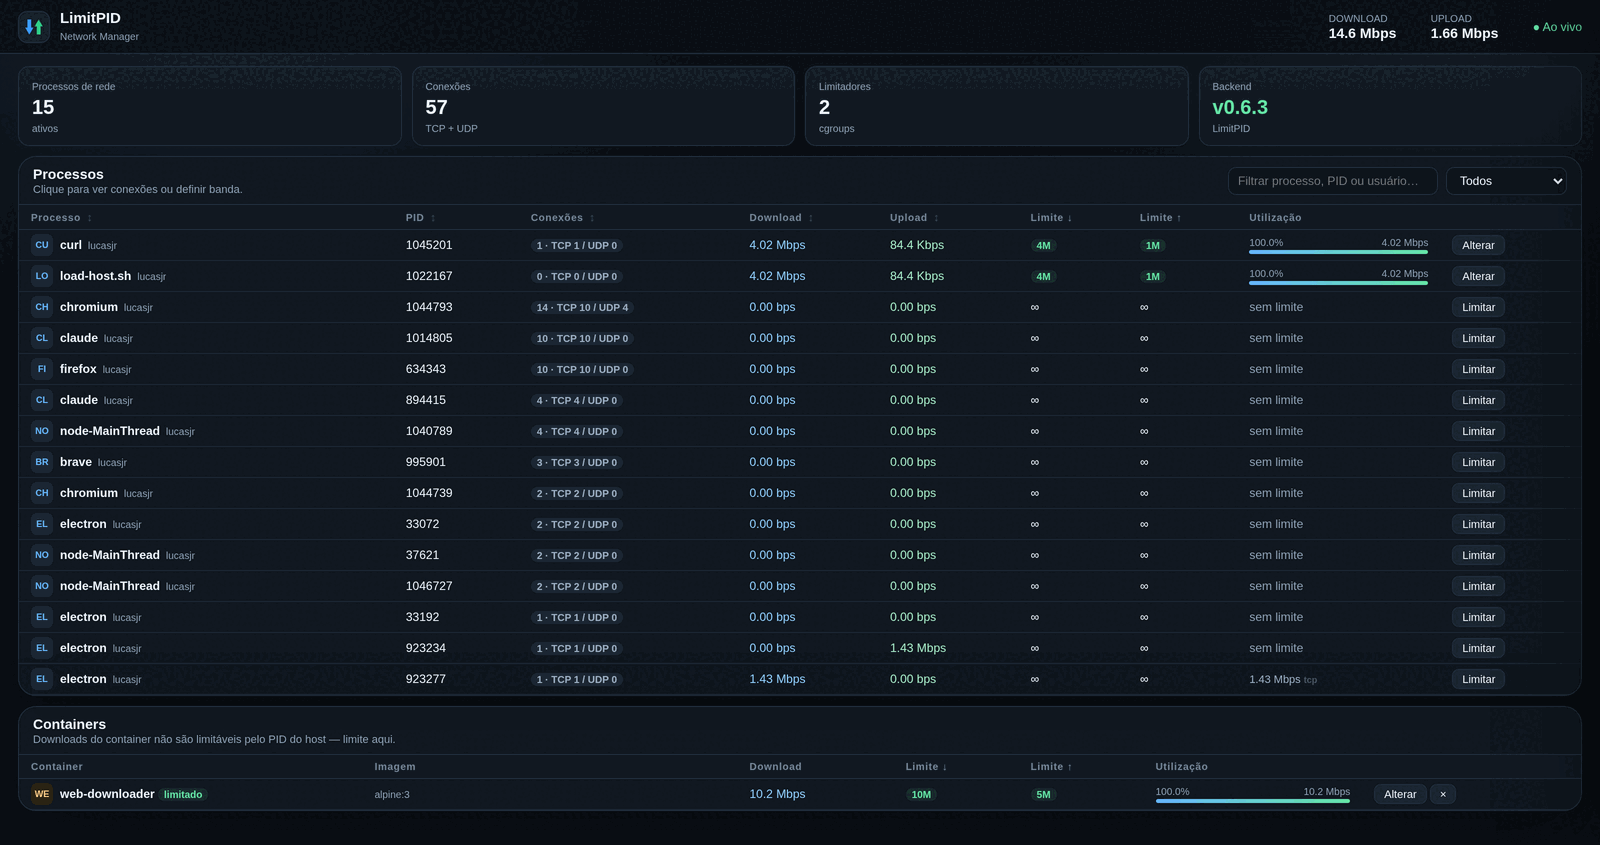
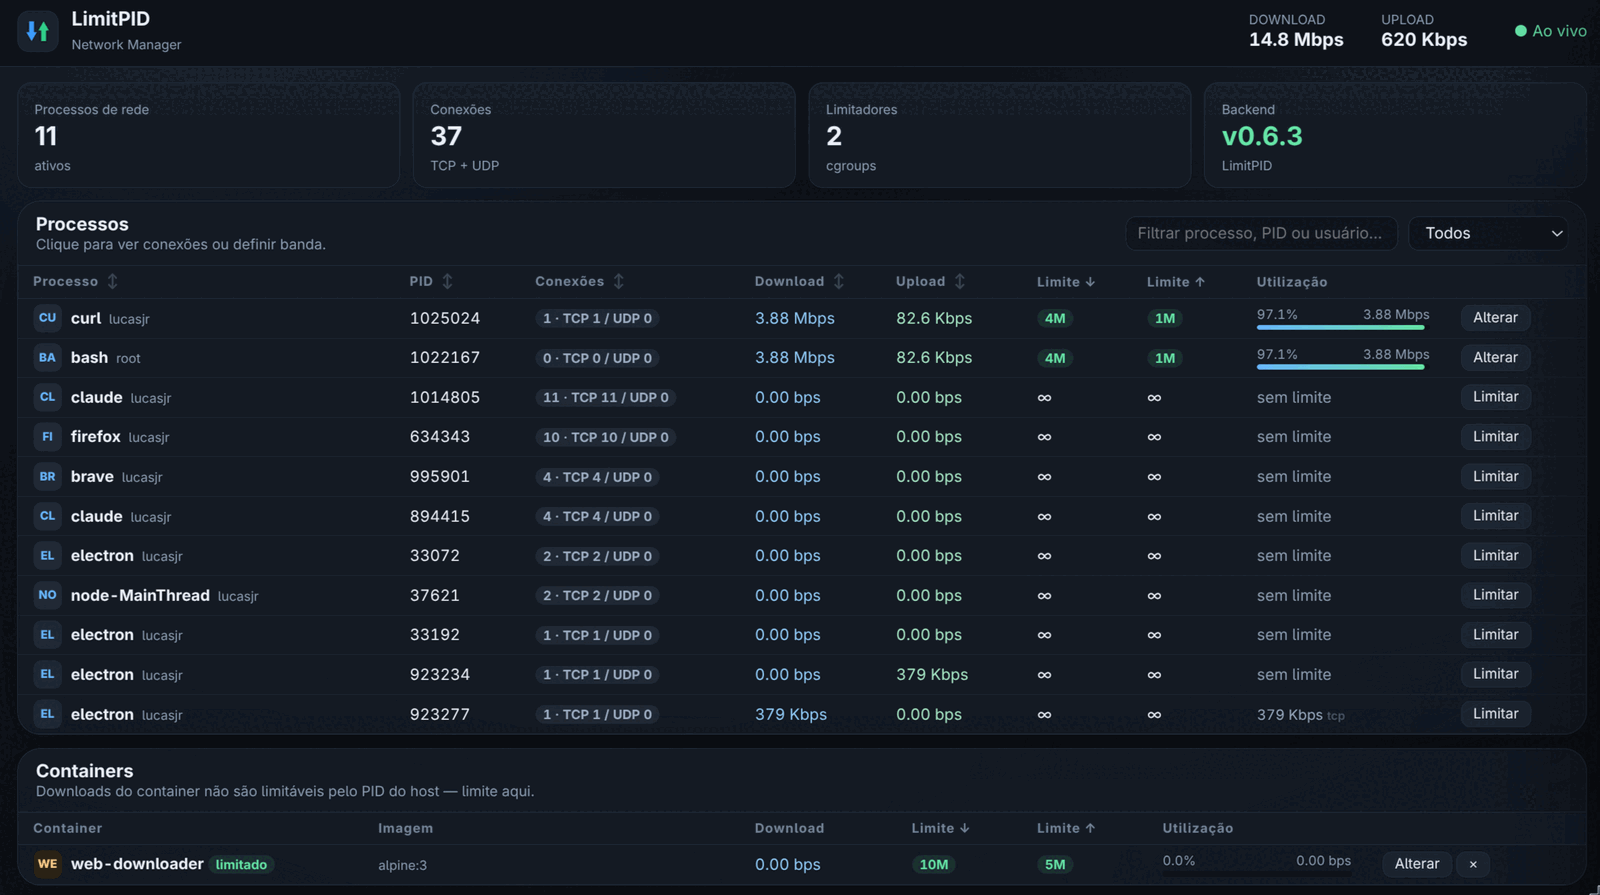
docs: usa a captura enviada pelo autor e ajusta a legenda aos numeros dela
O print anterior foi substituido pelo enviado pelo autor: mostra dois
limitadores de PID a 4M/1M rodando a 97,1% do teto e o container
web-downloader limitado a 10M/5M. Metadados removidos.

As legendas dos dois README foram reescritas para descrever exatamente o que
aparece na imagem, em vez de numeros de uma captura anterior.

diff --git a/README.md b/README.md
@@ -24,10 +24,11 @@ The backend is fully usable on its own from the command line. The GUI is conveni
 
 ![The LimitPID GUI](assets/screenshot.png)
 
-Above: two processes capped at 4 Mbit/s (`curl` and a load script) running at 100% of
-their ceiling, and the container `web-downloader` capped at 10 Mbit/s pulling 10.2 Mbps.
-The other processes show `∞` because they have no limiter — their rate comes from
-`tcp_info`.
+Above: `curl` and `bash` capped at **4M ↓ / 1M ↑**, both running at **97.1%** of their
+ceiling — the utilization bar comes from the eBPF counters, which are exact. The container
+`web-downloader` is capped at **10M / 5M** and idle at capture time. The other processes
+show `∞` because they have no limiter; their rate comes from `tcp_info`, hence the `tcp`
+marker.
 
 ---
 

diff --git a/README.pt-BR.md b/README.pt-BR.md
@@ -24,9 +24,10 @@ O backend funciona sozinho pela linha de comando. A GUI é conveniência.
 
 ![A GUI do LimitPID](assets/screenshot.png)
 
-Acima: dois processos limitados a 4 Mbit/s (`curl` e um script de carga) rodando a 100%
-do teto, e o container `web-downloader` limitado a 10 Mbit/s puxando 10,2 Mbps. Os demais
-processos aparecem com `∞` porque não têm limitador — a taxa deles vem do `tcp_info`.
+Acima: `curl` e `bash` limitados a **4M ↓ / 1M ↑**, ambos a **97,1%** do teto — a barra
+de utilização vem dos contadores eBPF, exatos. O container `web-downloader` está limitado
+a **10M / 5M** e ocioso no momento da captura. Os demais processos mostram `∞` porque não
+têm limitador; a taxa deles vem do `tcp_info` e por isso traz o marcador `tcp`.
 
 ---
 
